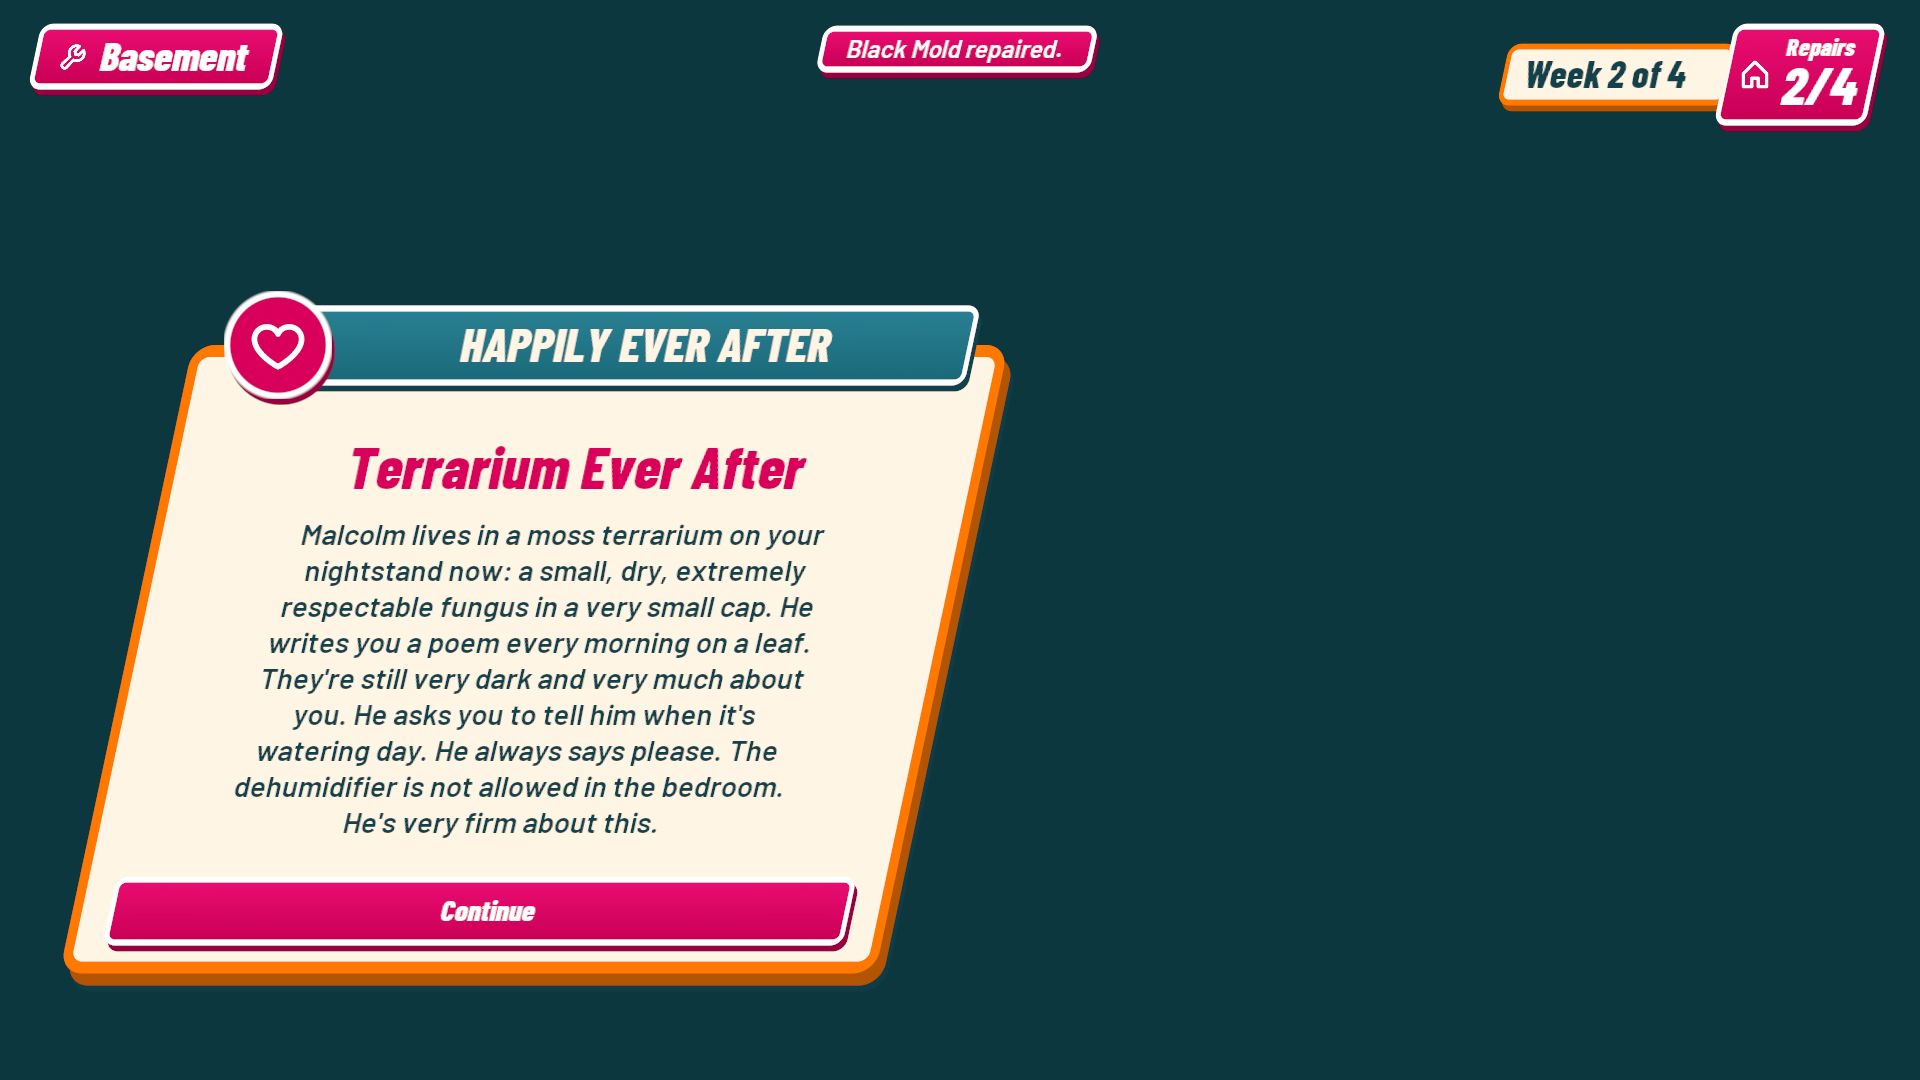
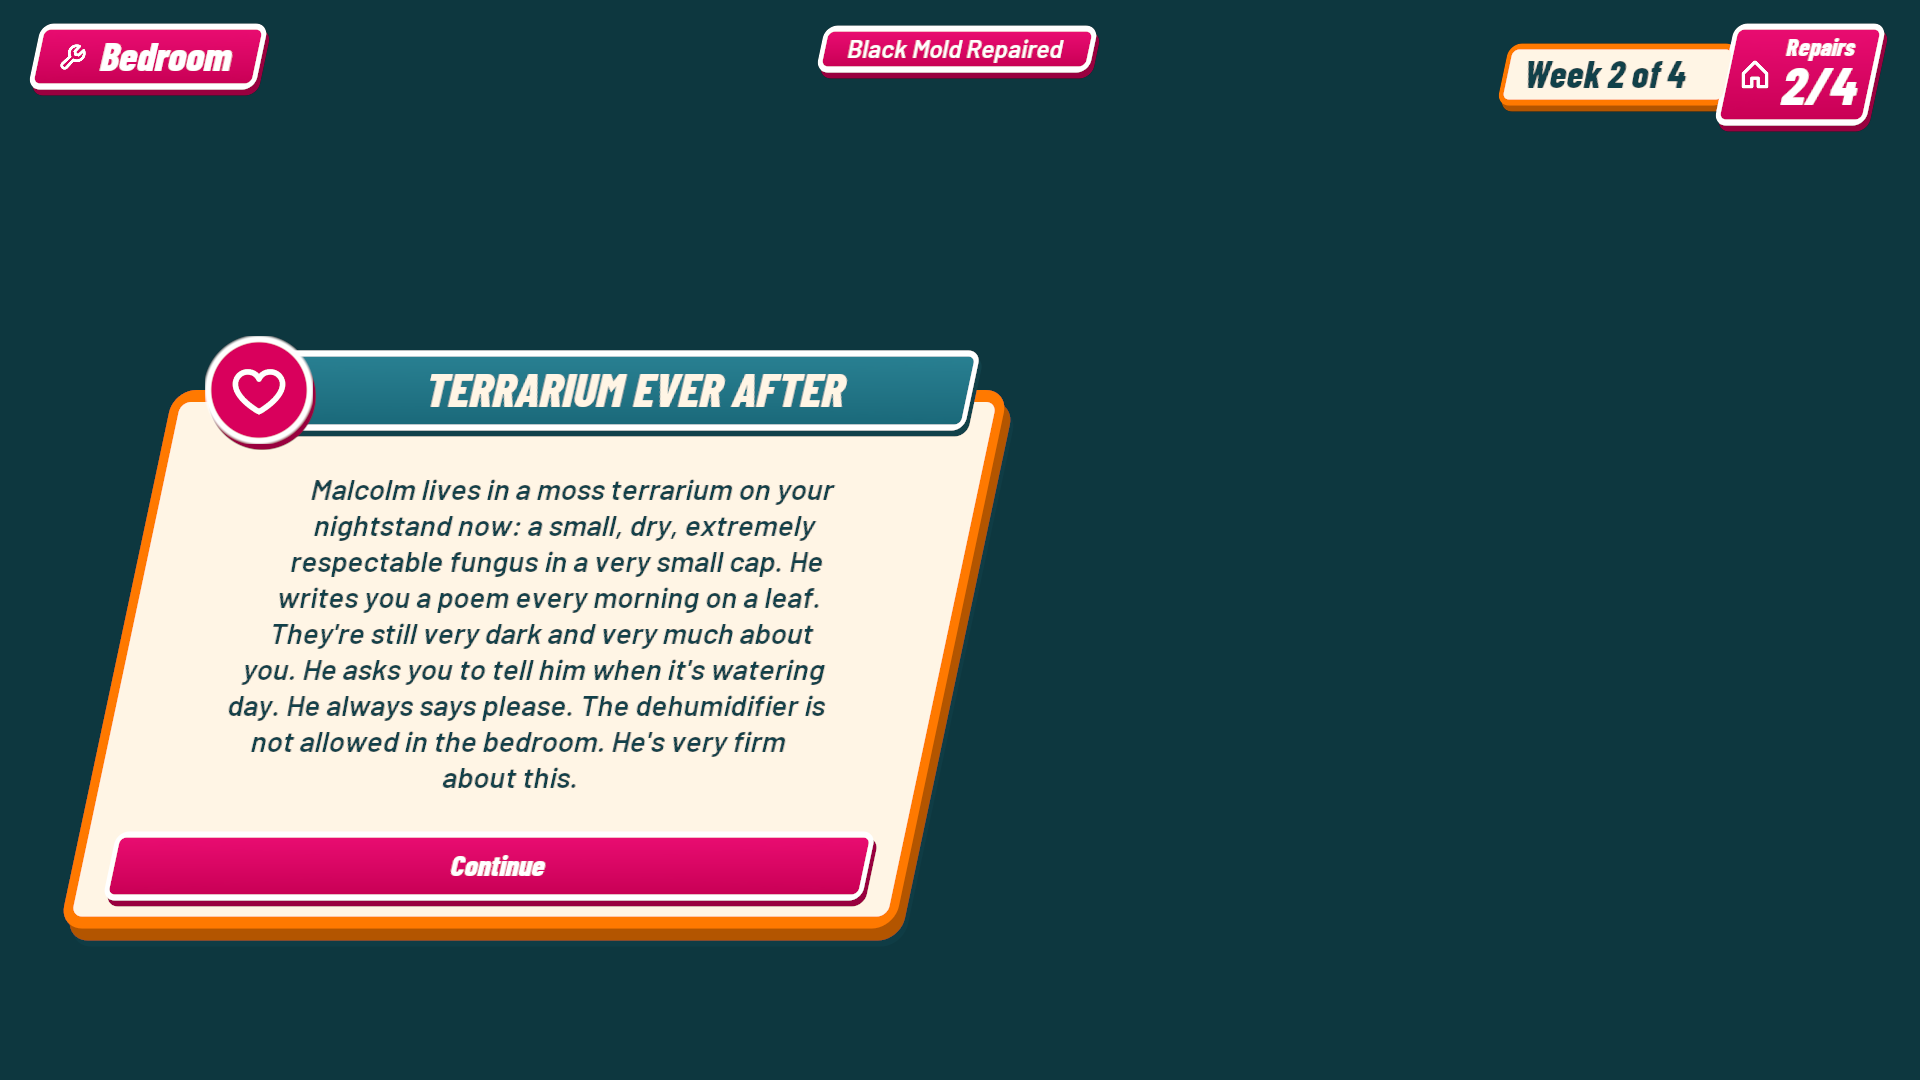
Ending card: ending's own title on the plate; toast reads '<Malady> Repaired'
The plate shows the authored ending title (TERRARIUM EVER AFTER) instead of
a generic category, and the separate in-card title is gone. The HUD toast
reads 'Black Mold Repaired' (malady names are already title case). Test
fixtures: Malcolm's room is the bedroom; the long-title capture uses the
longest authored title.

Changed region(s): [[0.0312, 0.2444, 0.5312, 0.9167], [0.4375, 0.0306, 0.5625, 0.0611], [0.0625, 0.0306, 0.1562, 0.0917]]

diff --git a/Source/ICanFixHim/UI/FixHimCards.cpp b/Source/ICanFixHim/UI/FixHimCards.cpp
@@ -241,17 +241,12 @@ void UFixHimIntroCardWidget::NativeTick(const FGeometry& MyGeometry, float InDel
 
 void UFixHimEndingCardWidget::BuildUI()
 {
-	// The ending category is the card's title plate (set in Setup). Wide enough that the longest ending
+	// The ending's own title goes on the title plate (set in Setup). Wide enough that the longest ending
 	// (~360 characters) fits without scrolling.
 	UVerticalBox* Col = MakeCardScreen(TEXT("Ending"), 1040.f);
 	OpenSfx = NAME_None; // the ending jingle covers it
 	OutsideClickMinAge = 0.8f;
 	Col->ClearChildren();
-
-	Title = MakeText(WidgetTree, TEXT("Title"), 44, HotPink, TEXT("Display"));
-	Title->SetJustification(ETextJustify::Center);
-	Title->SetAutoWrapText(true);
-	Col->AddChildToVerticalBox(Title)->SetPadding(FMargin(0.f, 4.f, 0.f, 14.f));
 
 	Body = MakeText(WidgetTree, TEXT(""), 22, Plum);
 	Body->SetJustification(ETextJustify::Center);
@@ -272,11 +267,10 @@ void UFixHimEndingCardWidget::BuildUI()
 
 void UFixHimEndingCardWidget::Setup(const FHunkDefinition& Def, const FString& EndingId, int32 FixedCount, int32 TotalCount)
 {
-	// The plate carries the ending's name; the badge says romance (heart), friendship (users) or a failure (flame).
+	// The plate carries the ending's own title; the badge says romance (heart), friendship (users) or a failure
+	// (flame).
 	const bool bRomance = EndingId.StartsWith(TEXT("romance"));
 	const bool bSuccess = EndingId.EndsWith(TEXT("success"));
-	const TCHAR* KindText = bRomance ? (bSuccess ? TEXT("Happily ever after") : TEXT("It's not me, it's your foundation"))
-	                                 : (bSuccess ? TEXT("Besties") : TEXT("Sworn enemies"));
 	if (!bSuccess)
 		SetHeaderBadge(TEXT("flame"), FixHimDesign::Orange, FixHimDesign::OrangeDepth, FLinearColor::White);
 	else if (bRomance)
@@ -285,11 +279,9 @@ void UFixHimEndingCardWidget::Setup(const FHunkDefinition& Def, const FString& E
 		SetHeaderBadge(TEXT("users"), FixHimDesign::Friendship, FixHimDesign::Ink, FixHimDesign::Ink);
 
 	FixHim::Sfx(this, EndingId == TEXT("romance_success") ? "EndingRomance" : EndingId == TEXT("friend_success") ? "EndingFriend" : "EndingFail");
-	if (HeaderTitle)
-		HeaderTitle->SetText(FText::FromString(FString(KindText).ToUpper()));
-
 	const FHunkEnding* Ending = Def.Endings.Find(EndingId);
-	Title->SetText(FText::FromString(Ending ? Ending->Title : Def.Name));
+	if (HeaderTitle)
+		HeaderTitle->SetText(FText::FromString((Ending ? Ending->Title : Def.Name).ToUpper()));
 	const UFixHimSaveSubsystem* SaveSub = UFixHimSaveSubsystem::Get(this);
 	const FString PlayerName = SaveSub ? SaveSub->GetPlayerName() : UFixHimSettings::Get()->PlayerName;
 	Body->SetText(FText::FromString(Ending ? Ending->Text.Replace(TEXT("{player}"), *PlayerName) : FString()));

diff --git a/Source/ICanFixHim/Tests/FixHimDesignSystemTest.cpp b/Source/ICanFixHim/Tests/FixHimDesignSystemTest.cpp
@@ -306,7 +306,7 @@ bool FFixHimDesignSystemTest::RunTest(const FString &Parameters)
 	FHunkDefinition Def;
 	Def.Id = TEXT("tyler");
 	Def.Name = TEXT("Tyler");
-	Def.Malady = TEXT("Pink bathroom tile");
+	Def.Malady = TEXT("Pink Tile");
 	Def.Tagline = TEXT("Some things deserve to stay pink.");
 	Def.Portrait = TEXT("/Game/ICanFixHim/UI/Portraits/T_Portrait_Tyler.T_Portrait_Tyler");
 	Intro->Setup(Def, nullptr, [] {});
@@ -338,10 +338,12 @@ bool FFixHimDesignSystemTest::RunTest(const FString &Parameters)
 	EndingDef.Endings.Add(TEXT("romance_success"), EndingData);
 	Ending->Setup(EndingDef, TEXT("romance_success"), 2, 4);
 	Render(Ending, TEXT("14-ending-card"), {1920, 1080}, {1920, 1080});
-	// The longest category label on the title plate.
+	// A failure ending (flame badge) with the longest authored ending title on the plate (Lukey, 26 characters).
 	auto *Failure = Make.template operator()<UFixHimEndingCardWidget>();
 	Failure->TakeWidget();
-	EndingDef.Endings.Add(TEXT("romance_failure"), EndingData);
+	FHunkEnding LongTitle = EndingData;
+	LongTitle.Title = TEXT("Head Over Heels Over Pipes");
+	EndingDef.Endings.Add(TEXT("romance_failure"), LongTitle);
 	Failure->Setup(EndingDef, TEXT("romance_failure"), 2, 4);
 	Render(Failure, TEXT("14-ending-card-long-label"), {1920, 1080}, {1920, 1080});
 	auto *Friends = Make.template operator()<UFixHimEndingCardWidget>();
@@ -371,11 +373,11 @@ bool FFixHimDesignSystemTest::RunTest(const FString &Parameters)
 	// Over the ending card the HUD shows only its header, with the repair as the toast (composited for review).
 	auto *EndingHUD = Make.template operator()<UFixHimHUDWidget>();
 	EndingHUD->TakeWidget();
-	EndingHUD->SetRoomName(FText::FromString(TEXT("Basement")));
+	EndingHUD->SetRoomName(FText::FromString(TEXT("Bedroom"))); // Malcolm's room
 	EndingHUD->SetRepairs(2, 4, 2, 4);
 	EndingHUD->SetReticle(false, EFixHimInteractionAction::None, FText::GetEmpty());
 	EndingHUD->SetHeaderOnly(true);
-	EndingHUD->ShowToast(TEXT("Black Mold repaired."), TNumericLimits<float>::Max(), false);
+	EndingHUD->ShowToast(TEXT("Black Mold Repaired"), TNumericLimits<float>::Max(), false);
 	Render(EndingHUD, TEXT("14-ending-card-hud"), {1920, 1080}, {1920, 1080});
 	// Docked trials that leave room for ending art.
 	for (const auto &[CardDock, CardName] : {TPair<EFixHimCardDock, const TCHAR *>(EFixHimCardDock::Bottom, TEXT("14-ending-card-bottom")),

diff --git a/Source/ICanFixHim/Player/FixHimPlayerController.cpp b/Source/ICanFixHim/Player/FixHimPlayerController.cpp
@@ -1186,14 +1186,14 @@ void AFixHimPlayerController::HandleConversationEnded(const FString& HunkId, con
 		ShowWidget(EndingWidget, 35);
 		EndingWidget->Setup(*Def, EndingId, Dialogue->CountFixedStoryHunks(), Dialogue->CountStoryHunks());
 		EnterState(EFixHimState::Ending);
-		// The HUD header reports the repair over the card: room, "<malady> repaired" toast, week and the updated
+		// The HUD header reports the repair over the card: room, "<malady> Repaired" toast, week and the updated
 		// repairs count. Re-added above the card's scrim until the card closes.
 		if (HUDWidget)
 		{
 			HideWidget(HUDWidget);
 			ShowWidget(HUDWidget, 36);
 			HUDWidget->SetHeaderOnly(true);
-			HUDWidget->ShowToast(FString::Printf(TEXT("%s repaired."), *Def->Malady), TNumericLimits<float>::Max(), false);
+			HUDWidget->ShowToast(FString::Printf(TEXT("%s Repaired"), *Def->Malady), TNumericLimits<float>::Max(), false);
 		}
 	}
 	else

diff --git a/Source/ICanFixHim/UI/FixHimCards.h b/Source/ICanFixHim/UI/FixHimCards.h
@@ -76,7 +76,6 @@ protected:
 	virtual bool HandleClickOutside() override;
 
 private:
-	UPROPERTY() TObjectPtr<UTextBlock> Title;
 	UPROPERTY() TObjectPtr<UTextBlock> Body;
 	UPROPERTY() TObjectPtr<UTextBlock> Progress;
 };

diff --git a/docs/04 Tech/UI Component Library.md b/docs/04 Tech/UI Component Library.md
@@ -69,7 +69,7 @@ Dialogue retains its typewriter, clickable topic callbacks and authored choices.
 
 Keyline width comes from `FixHimDesign::ButtonBorder` (6) and `PopupBorder` (12); set `UFixHimSurface::BorderWidth` for large containers. The extrusion is derived from it (`DepthOffset`, `DepthReserveX/Y`: border down, half that across) and coloured `OrangeDepth`, `PinkDepth` or ink. To centre text on a surface, use `bottom = top + FixHimDesign::Extrusion` padding and fill (not centre) alignment for button content: Slate's centred slot alignment ignores asymmetric padding and would lift labels by half the extrusion. `FixHimDesign::CapCentre` (-0.05 em) centres capitals rather than the line box.
 
-`UFixHimWidget::MakeHeaderedSurface` wraps any slanted surface with a teal title plate straddling its top edge. A title that is too long for the plate scales down to fit (short titles are never scaled up), and `HeaderTitle` exposes the plate's text for screens that set it later. `SetHeaderBadge` adds a round icon badge at the plate's left end, sized and drawn like the dialogue name plate (108 units, white 6-unit keyline over a darker extrusion), with the title centred in the plate beside it. The ending card's plate shows the ending's name (HAPPILY EVER AFTER, IT'S NOT ME, IT'S YOUR FOUNDATION, BESTIES, SWORN ENEMIES) with a badge for its kind: pink heart for romance, friendship-blue users for friendship, orange flame for either failure. `MakeCardScreen` and the floor plan use it; the plate position is re-fitted each tick from measured sizes, so text scaling and content changes stay aligned.
+`UFixHimWidget::MakeHeaderedSurface` wraps any slanted surface with a teal title plate straddling its top edge. A title that is too long for the plate scales down to fit (short titles are never scaled up), and `HeaderTitle` exposes the plate's text for screens that set it later. `SetHeaderBadge` adds a round icon badge at the plate's left end, sized and drawn like the dialogue name plate (108 units, white 6-unit keyline over a darker extrusion), with the title centred in the plate beside it. The ending card's plate shows the ending's own authored title (for example TERRARIUM EVER AFTER; the card has no separate title) with a badge for its kind: pink heart for romance, friendship-blue users for friendship, orange flame for either failure. `MakeCardScreen` and the floor plan use it; the plate position is re-fitted each tick from measured sizes, so text scaling and content changes stay aligned.
 
 The selected v4 logo is imported once for the title screen. Its raster edge speckling and a final editable brand master still need a dedicated finishing pass; it has not been silently replaced by a different logo. Construction stripes and routine ray flourishes remain excluded.
 

diff --git a/docs/03 Art & Audio/UI Design System.md b/docs/03 Art & Audio/UI Design System.md
@@ -73,8 +73,8 @@ The selected treatment restores **rounded corners, thicker asymmetric borders an
 - **Text is vertically centred on the face** of every button, header and plate: bottom padding = top padding + the extrusion reserve (keyline + 3), and labels lift by 0.05 em so capitals (not the font's line box) sit on the centre. Buttons carry 16 units of vertical padding.
 - The title screen shows only the logo and menu: no tagline, event footer or backdrop panel. The logo sits centred over a straight stack of large standalone buttons on the left of the scene, as in the title concept. The buttons are taller, with 32-unit labels and the popup shadow.
 - Button icons are orange on cream buttons and white on pink ones.
-- While an ending card is up, the HUD header stays visible above its dim overlay. The toast at top centre reports the repair (for example "Black Mold repaired.") and the repairs badge shows the new count, so the card itself carries no tally. Only the final repair's closing line stays on the card.
-- Ending cards name the ending on the title plate, with a round badge on the plate's left edge for its kind, using the meter icons: heart (pink) for romance, users (friendship blue) for friendship, flame (orange) for a failed ending.
+- While an ending card is up, the HUD header stays visible above its dim overlay. The toast at top centre reports the repair (for example "Black Mold Repaired") and the repairs badge shows the new count, so the card itself carries no tally. Only the final repair's closing line stays on the card.
+- Ending cards put the ending's own title on the title plate (no second title in the card), with a round badge on the plate's left edge for its kind, using the meter icons: heart (pink) for romance, users (friendship blue) for friendship, flame (orange) for a failed ending.
 - **Popup and sheet headers** are teal plates straddling the surface's top edge: the plate face is centred vertically on that edge and inset equally from both slanted sides.
 - Dialogue shows **no character portrait**; the character is present in the scene.
 - The **dialogue header** straddles the panel's top edge: a pink name plate (name only, 66-unit display face) and a teal strip tucked behind it holding the three meters. Each meter is a thick bar in its stat color with a round stat-colored icon badge overlaid on its left end; no text labels or dividers. The meters start at a fixed position that clears the widest name any speaker can have in the playthrough (hunks, extra speakers, the player's name) by at least 36 units, so they never shift between speakers. Replies are unnumbered; number keys still choose by position. Narration has no header. Spoken lines and replies share one size.
